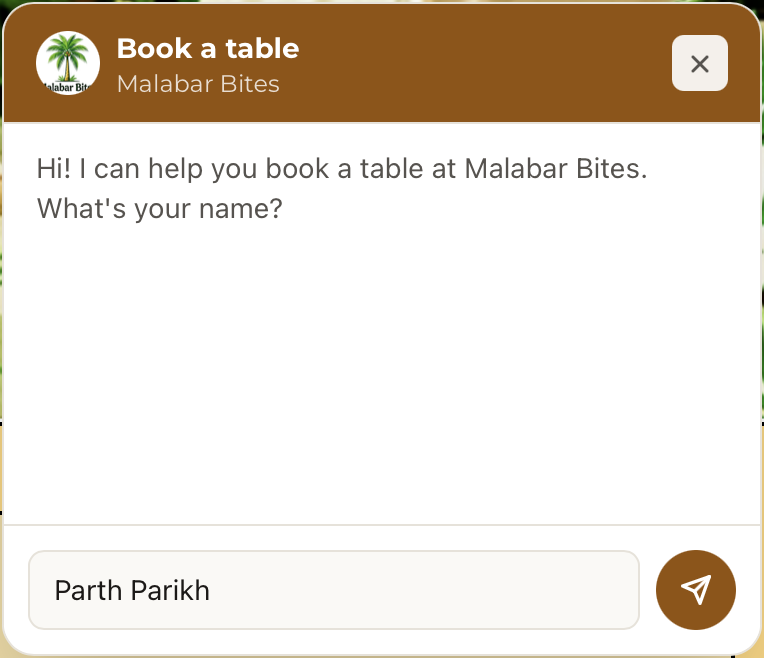
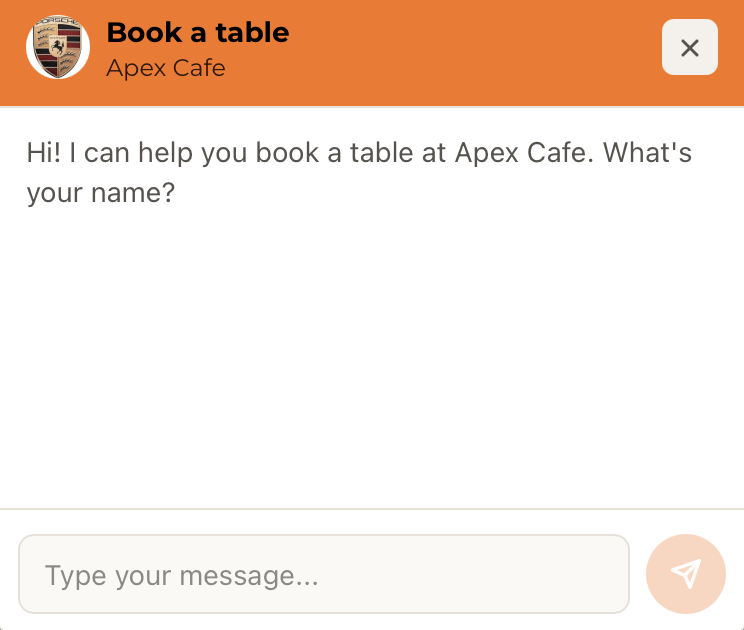
V1.3 Restaurant changes

Changed region(s): [[0.0, 0.0, 1.0, 1.0]]

diff --git a/app/api/menu/vision-parse/route.ts b/app/api/menu/vision-parse/route.ts
@@ -103,7 +103,7 @@ Rules:
             ],
           },
         ],
-        max_tokens: 2000,
+        max_tokens: 4000,
       }),
     });
 
